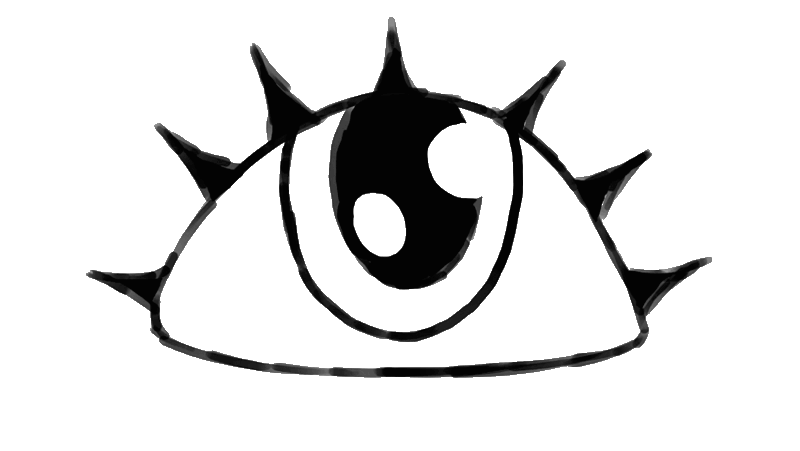
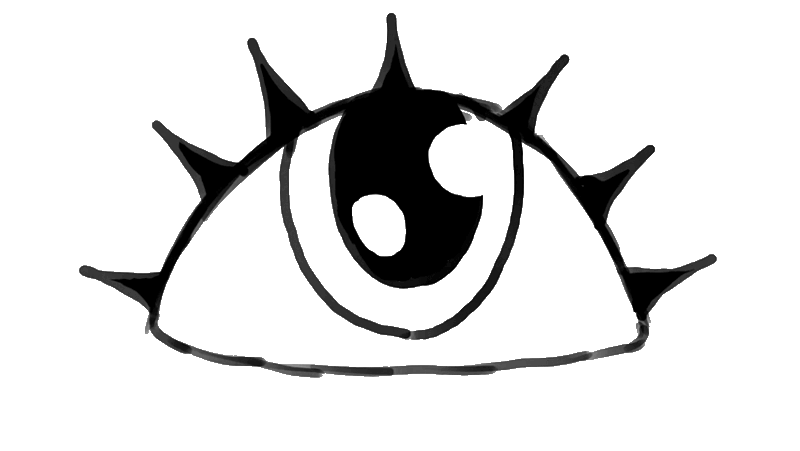
scale and eye positioning abstraction

diff --git a/src/components/eye.js b/src/components/eye.js
@@ -3,7 +3,7 @@ import { useFrame, useThree } from '@react-three/fiber';
 import * as THREE from 'three';
 import useGameStore from '../store';
 
-const Eye = () => {
+const Eye = ({ position = [0, 0, 0], scale = [.5, .5] }) => {
   const eyeRef = useRef();
   const materialRef = useRef();
   const { camera } = useThree();
@@ -16,8 +16,8 @@ const Eye = () => {
   const isBlinkingRef = useRef(false);
   const framesLoadedRef = useRef(false);
   
-  // Animation sequence tracking - we know exact frame counts now
-  const WIGGLE_FRAME_COUNT = 3; // 3 frames: wiggle1.png to wiggle3.png
+  // Animation sequence tracking - UPDATED for 2 wiggle frames
+  const WIGGLE_FRAME_COUNT = 2; // CHANGED from 3 to 2 frames: wiggle1.png to wiggle2.png
   const BLINK_FRAME_COUNT = 5;  // 5 frames: blink1.png to blink5.png
   
   // Store loaded textures
@@ -49,7 +49,7 @@ const Eye = () => {
     // Create promise arrays for loading
     const loadPromises = [];
     
-    // Load wiggle frames (wiggle1.png through wiggle3.png)
+    // Load wiggle frames (wiggle1.png through wiggle2.png) - UPDATED for 2 frames
     for (let i = 1; i <= WIGGLE_FRAME_COUNT; i++) {
       const framePath = `/eye/wiggle/wiggle${i}.png`;
       
@@ -177,7 +177,7 @@ const Eye = () => {
           }
         }
       } else {
-        // Playing wiggle sequence
+        // Playing wiggle sequence - UPDATED for 2 frames
         const nextFrame = (currentFrame + 1) % WIGGLE_FRAME_COUNT;
         setCurrentFrame(nextFrame);
         
@@ -212,13 +212,13 @@ const Eye = () => {
   
   // Add a light to ensure the eye is visible
   return (
-    <group position={[eyePosition.x, 2, 6]}>
+    <group position={position}>
       {/* Main eye mesh */}
       <mesh 
         ref={eyeRef}
         rotation={[0, Math.PI, 0]} // Ensure the eye faces the correct direction
       >
-        <planeGeometry args={[.5, .5]} /> {/* Adjust size as needed */}
+        <planeGeometry args={scale} /> {/* Adjust size as needed */}
         <meshStandardMaterial 
           ref={materialRef}
           transparent={true}
@@ -231,9 +231,6 @@ const Eye = () => {
           }
         />
       </mesh>
-      
-      
-
     </group>
   );
 };

diff --git a/src/App.js b/src/App.js
@@ -235,7 +235,14 @@ function App() {
               <Player />
               <AmbientNightLight />
               <StaticItems />
-              <Eye />
+              <Eye
+                position={[5.2, 2, 6]}
+                scale={[.3, .3]}
+              />
+              <Eye
+                position={[4.8, 2, 6]}
+                scale={[.3, .3]}
+              />
               {loadingFade && <FadeOutPlane />}
               <ForceRender />
               <CameraShake />
